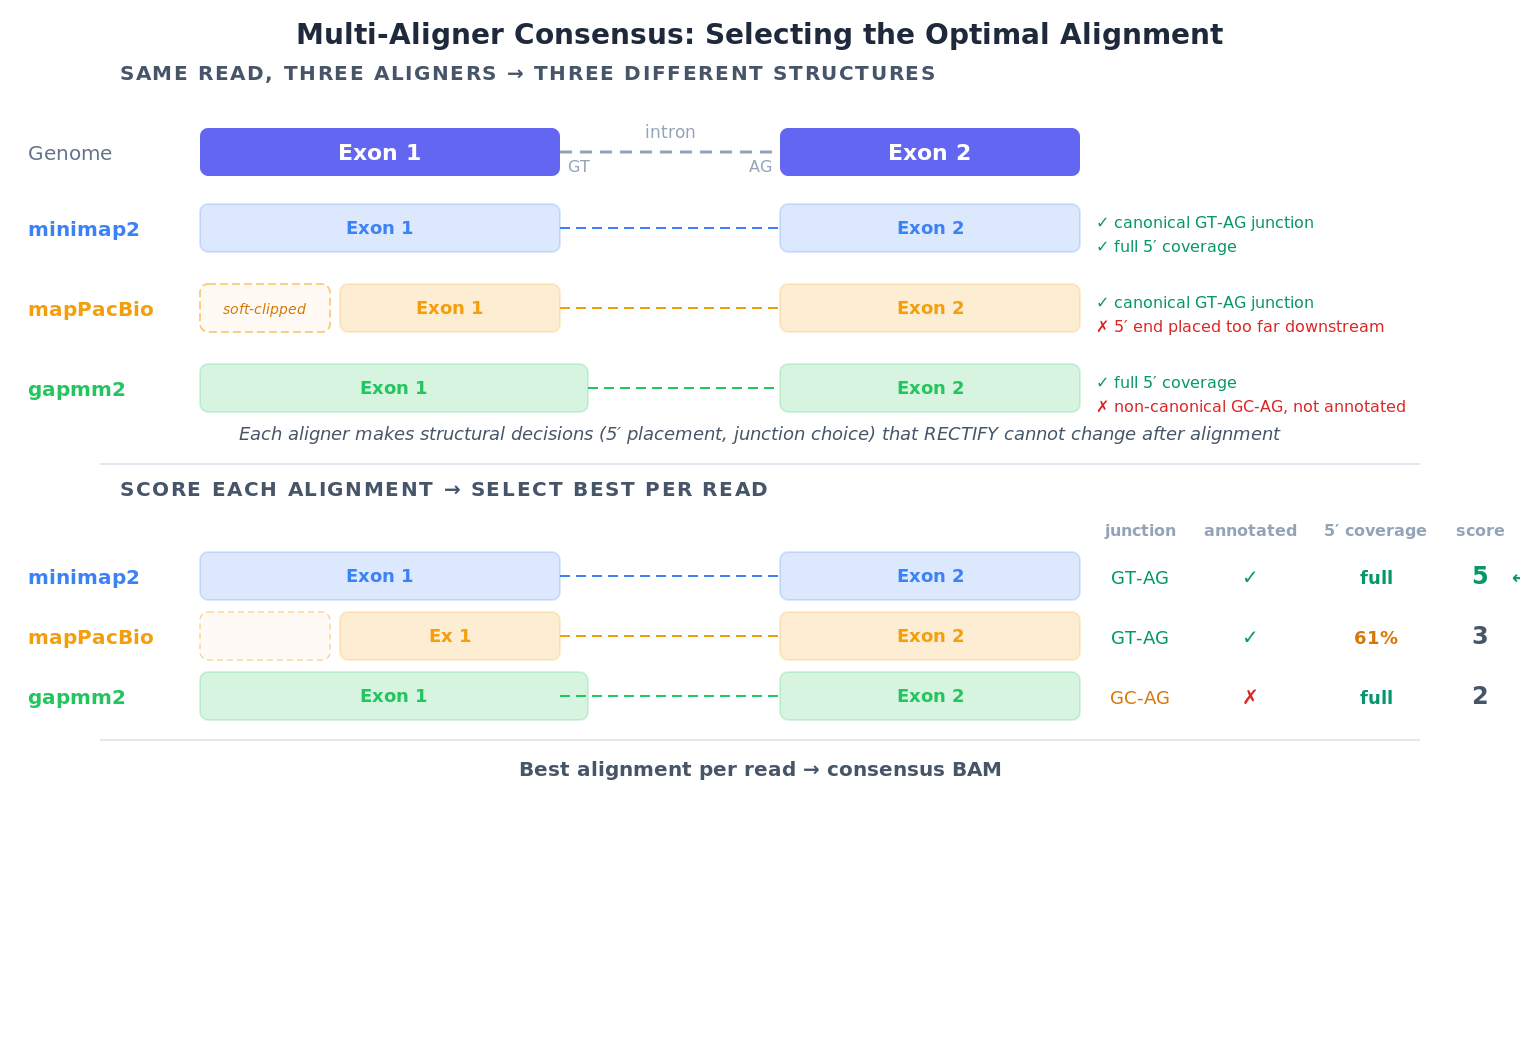
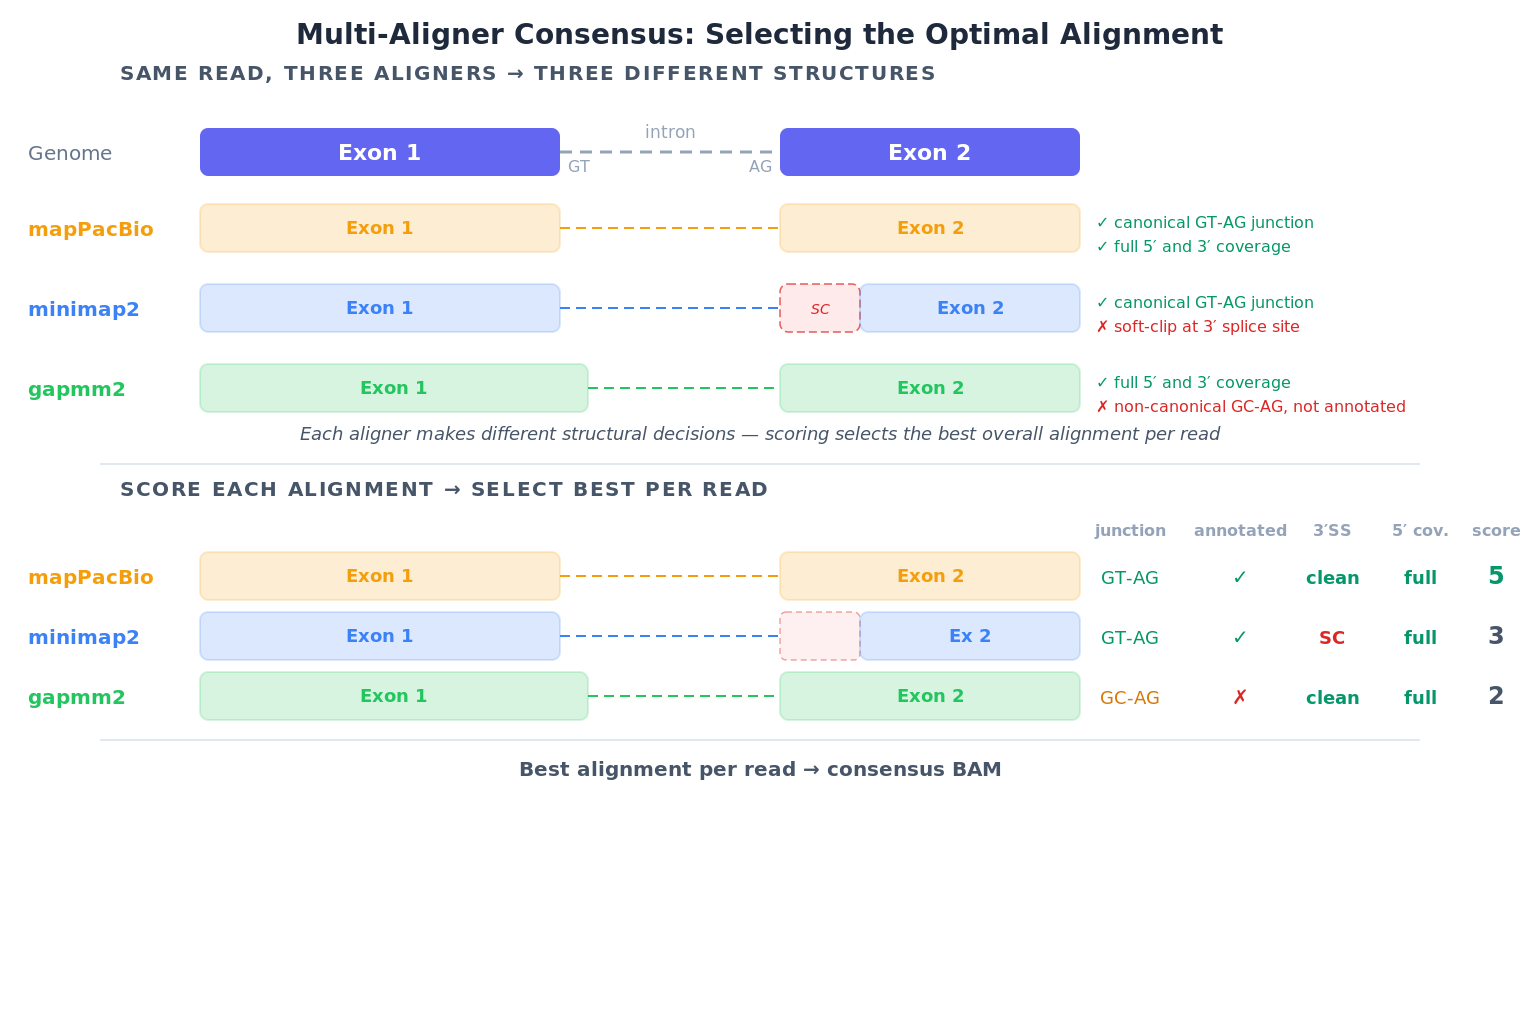
Redesign figures with unified style system; fix aligner name to mapPacBio

diff --git a/generate_figures.py b/generate_figures.py
@@ -480,14 +480,12 @@ def fig_5prime_junction():
 
 def fig_multi_aligner_consensus():
     """
-    Key insight: all aligners map the SAME read, but make fundamentally
-    different structural decisions — junction placement, 5' end positioning —
-    that RECTIFY cannot change after the fact. If RECTIFY could perfectly fix
-    everything, all aligners would score identically and consensus would be
-    pointless. The value is selecting the alignment with the best structural
-    choices per read.
+    Key insight: all aligners map the SAME read, but each makes different
+    structural decisions. For this read, mapPacBio nails the alignment;
+    minimap2 soft-clips at the 3'SS (common in DRS); gapmm2 shifts the
+    junction. Scoring selects the best overall alignment per read.
     """
-    H = 520
+    H = 510
     BLK_H = 24
     ROW_SP = 36
     L = []
@@ -499,10 +497,14 @@ def fig_multi_aligner_consensus():
     EX1_X, EX1_W = 100, 180
     EX2_X, EX2_W = 390, 150
     INT_X1, INT_X2 = 280, 390
-    # Total read footprint = Exon1 + Exon2 = 180 + 150 = 330px of aligned sequence
 
     # Aligner colors
     AC = {"minimap2": "#3b82f6", "mapPacBio": "#f59e0b", "gapmm2": "#22c55e"}
+
+    # Soft-clip width for minimap2 at 3'SS
+    sc_w = 40  # bases soft-clipped at the start of Exon 2
+    # Junction shift for gapmm2
+    jn_shift = 14
 
     # ── SAME READ, THREE DIFFERENT STRUCTURAL DECISIONS ──
     y_sec = 40
@@ -513,15 +515,14 @@ def fig_multi_aligner_consensus():
     L.append(row_label("Genome", y_g + BLK_H // 2 + 4))
     L.append(exon(EX1_X, y_g, EX1_W, BLK_H, "Exon 1"))
     L.append(intron(INT_X1, INT_X2, y_g + BLK_H // 2))
-    # Splice site dinucleotides on genome
     L.append(f'<text fill="{PAL["muted"]}" font-size="8" x="{INT_X1+4}" y="{y_g + BLK_H - 2}">GT</text>')
     L.append(f'<text fill="{PAL["muted"]}" font-size="8" text-anchor="end" x="{INT_X2-4}" y="{y_g + BLK_H - 2}">AG</text>')
     L.append(exon(EX2_X, y_g, EX2_W, BLK_H, "Exon 2"))
 
-    # ── minimap2: Full coverage, canonical annotated junction ──
+    # ── mapPacBio: Clean alignment — full coverage, canonical junction ──
     y = y_g + 38
-    c = AC["minimap2"]
-    L.append(f'<text fill="{c}" font-size="10" font-weight="600" x="14" y="{y + BLK_H//2 + 4}">minimap2</text>')
+    c = AC["mapPacBio"]
+    L.append(f'<text fill="{c}" font-size="10" font-weight="600" x="14" y="{y + BLK_H//2 + 4}">mapPacBio</text>')
     L.append(aligned_block(EX1_X, y, EX1_W, BLK_H, "Exon 1", c))
     L.append(f'<line stroke="{c}" stroke-dasharray="5,3" stroke-width="1" '
              f'x1="{INT_X1}" x2="{INT_X2}" y1="{y+BLK_H//2}" y2="{y+BLK_H//2}"/>')
@@ -529,54 +530,53 @@ def fig_multi_aligner_consensus():
     L.append(f'<text fill="{PAL["green"]}" font-size="8" x="{EX2_X + EX2_W + 8}" '
              f'y="{y + BLK_H//2 + 0}">\u2713 canonical GT-AG junction</text>')
     L.append(f'<text fill="{PAL["green"]}" font-size="8" x="{EX2_X + EX2_W + 8}" '
-             f'y="{y + BLK_H//2 + 12}">\u2713 full 5\u2032 coverage</text>')
+             f'y="{y + BLK_H//2 + 12}">\u2713 full 5\u2032 and 3\u2032 coverage</text>')
 
-    # ── mapPacBio: Same junction, but 5' end placed too far downstream ──
-    # The read is the same length — mapPacBio just didn't extend Exon 1 as far.
-    # Show as: soft-clipped 5' portion (faded) + shorter aligned Exon 1
+    # ── minimap2: Soft-clip at 3'SS — common DRS artifact ──
+    # minimap2 maps Exon 1 correctly and finds the junction, but soft-clips
+    # bases at the start of Exon 2 (right after the 3' splice site).
+    # Same read, same total length — just fewer Exon 2 bases aligned.
     y += ROW_SP + 4
-    c = AC["mapPacBio"]
-    L.append(f'<text fill="{c}" font-size="10" font-weight="600" x="14" y="{y + BLK_H//2 + 4}">mapPacBio</text>')
-    # Soft-clipped 5' region — same read, bases present but not mapped here
-    sc_w = 70  # soft-clipped portion
-    mpb_align_start = EX1_X + sc_w
-    L.append(f'<rect fill="#fff7ed" height="{BLK_H}" rx="4" '
-             f'stroke="{c}" stroke-dasharray="4,2" stroke-width="0.8" opacity="0.6" '
-             f'width="{sc_w - 5}" x="{EX1_X}" y="{y}"/>')
-    L.append(f'<text fill="{PAL["orange"]}" font-size="7" font-style="italic" text-anchor="middle" '
-             f'x="{EX1_X + (sc_w - 5)//2}" y="{y + BLK_H//2 + 3}">soft-clipped</text>')
-    # Aligned portion of Exon 1 (shorter)
-    L.append(aligned_block(mpb_align_start, y, INT_X1 - mpb_align_start, BLK_H, "Exon 1", c))
+    c = AC["minimap2"]
+    L.append(f'<text fill="{c}" font-size="10" font-weight="600" x="14" y="{y + BLK_H//2 + 4}">minimap2</text>')
+    # Exon 1 aligned fully
+    L.append(aligned_block(EX1_X, y, EX1_W, BLK_H, "Exon 1", c))
+    # Junction
     L.append(f'<line stroke="{c}" stroke-dasharray="5,3" stroke-width="1" '
              f'x1="{INT_X1}" x2="{INT_X2}" y1="{y+BLK_H//2}" y2="{y+BLK_H//2}"/>')
-    L.append(aligned_block(EX2_X, y, EX2_W, BLK_H, "Exon 2", c))
+    # Soft-clipped region at start of Exon 2 (right after 3'SS)
+    L.append(f'<rect fill="{PAL["red_l"]}" height="{BLK_H}" rx="4" '
+             f'stroke="{PAL["red"]}" stroke-dasharray="4,2" stroke-width="0.8" opacity="0.7" '
+             f'width="{sc_w}" x="{EX2_X}" y="{y}"/>')
+    L.append(f'<text fill="{PAL["red"]}" font-size="7" font-style="italic" text-anchor="middle" '
+             f'x="{EX2_X + sc_w//2}" y="{y + BLK_H//2 + 3}">SC</text>')
+    # Remainder of Exon 2 aligned
+    L.append(aligned_block(EX2_X + sc_w, y, EX2_W - sc_w, BLK_H, "Exon 2", c))
     L.append(f'<text fill="{PAL["green"]}" font-size="8" x="{EX2_X + EX2_W + 8}" '
              f'y="{y + BLK_H//2 + 0}">\u2713 canonical GT-AG junction</text>')
     L.append(f'<text fill="{PAL["red"]}" font-size="8" x="{EX2_X + EX2_W + 8}" '
-             f'y="{y + BLK_H//2 + 12}">\u2717 5\u2032 end placed too far downstream</text>')
+             f'y="{y + BLK_H//2 + 12}">\u2717 soft-clip at 3\u2032 splice site</text>')
 
     # ── gapmm2: Full coverage, but junction shifted to wrong position ──
-    # Non-canonical splice site, not in annotation database
     y += ROW_SP + 4
     c = AC["gapmm2"]
     L.append(f'<text fill="{c}" font-size="10" font-weight="600" x="14" y="{y + BLK_H//2 + 4}">gapmm2</text>')
-    # Exon 1 extends further (junction placed too far right)
-    jn_shift = 14  # junction shifted 14px into what should be the intron
+    # Exon 1 extends past the true junction (shifted splice site)
     L.append(aligned_block(EX1_X, y, EX1_W + jn_shift, BLK_H, "Exon 1", c))
     L.append(f'<line stroke="{c}" stroke-dasharray="5,3" stroke-width="1" '
              f'x1="{INT_X1 + jn_shift}" x2="{INT_X2}" y1="{y+BLK_H//2}" y2="{y+BLK_H//2}"/>')
     L.append(aligned_block(EX2_X, y, EX2_W, BLK_H, "Exon 2", c))
     L.append(f'<text fill="{PAL["green"]}" font-size="8" x="{EX2_X + EX2_W + 8}" '
-             f'y="{y + BLK_H//2 + 0}">\u2713 full 5\u2032 coverage</text>')
+             f'y="{y + BLK_H//2 + 0}">\u2713 full 5\u2032 and 3\u2032 coverage</text>')
     L.append(f'<text fill="{PAL["red"]}" font-size="8" x="{EX2_X + EX2_W + 8}" '
              f'y="{y + BLK_H//2 + 12}">\u2717 non-canonical GC-AG, not annotated</text>')
 
-    # ── Callout: why this matters ──
+    # ── Callout ──
     y_note = y + BLK_H + 14
     L.append(f'<text fill="{PAL["heading"]}" font-size="9" font-style="italic" '
              f'text-anchor="middle" x="{FIG_W//2}" y="{y_note}">'
-             f'Each aligner makes structural decisions (5\u2032 placement, junction choice) '
-             f'that RECTIFY cannot change after alignment</text>')
+             f'Each aligner makes different structural decisions \u2014 '
+             f'scoring selects the best overall alignment per read</text>')
 
     # ── DIVIDER ──
     y_div = y_note + 12
@@ -588,61 +588,69 @@ def fig_multi_aligner_consensus():
 
     # Column headers
     y_hdr = y_sec2 + 20
-    score_cols = [("junction", 570), ("annotated", 625), ("5\u2032 coverage", 688), ("score", 740)]
+    score_cols = [("junction", 565), ("annotated", 620), ("3\u2032SS", 666), ("5\u2032 cov.", 710), ("score", 748)]
     for label, cx in score_cols:
         L.append(f'<text fill="{PAL["muted"]}" font-size="8" font-weight="600" '
                  f'text-anchor="middle" x="{cx}" y="{y_hdr}">{label}</text>')
 
-    # Score rows — these reflect POST-RECTIFY state (soft-clips rescued, indels
-    # corrected) but structural decisions are baked in
+    # Score rows
     scores = [
-        ("minimap2",   AC["minimap2"],   "GT-AG", "\u2713", "full",  "5", True),
-        ("mapPacBio",  AC["mapPacBio"],  "GT-AG", "\u2713", "61%",   "3", False),
-        ("gapmm2",     AC["gapmm2"],     "GC-AG", "\u2717", "full",  "2", False),
+        ("mapPacBio",  AC["mapPacBio"],  "GT-AG", "\u2713", "clean",  "full",  "5", True),
+        ("minimap2",   AC["minimap2"],   "GT-AG", "\u2713", "SC",     "full",  "3", False),
+        ("gapmm2",     AC["gapmm2"],     "GC-AG", "\u2717", "clean",  "full",  "2", False),
     ]
 
-    for i, (name, color, jn, ann, cov, score, is_best) in enumerate(scores):
+    for i, (name, color, jn, ann, ss, cov, score, is_best) in enumerate(scores):
         y = y_hdr + 8 + i * 30
         L.append(f'<text fill="{color}" font-size="10" font-weight="600" x="14" '
                  f'y="{y + BLK_H//2 + 4}">{name}</text>')
 
-        # Compact alignment bars in score section
+        # Compact alignment bars
         bar_x = 100
-        if name == "mapPacBio":
-            # Show truncated 5' as faded region
-            L.append(f'<rect fill="#fff7ed" height="{BLK_H}" rx="4" '
-                     f'stroke="{color}" stroke-dasharray="3,2" stroke-width="0.6" opacity="0.5" '
-                     f'width="{sc_w - 5}" x="{bar_x}" y="{y}"/>')
-            L.append(aligned_block(bar_x + sc_w, y, EX1_W - sc_w, BLK_H, "Ex 1", color))
+        if name == "minimap2":
+            L.append(aligned_block(bar_x, y, EX1_W, BLK_H, "Exon 1", color))
+            L.append(f'<line stroke="{color}" stroke-dasharray="5,3" stroke-width="1" '
+                     f'x1="{INT_X1}" x2="{INT_X2}" y1="{y+BLK_H//2}" y2="{y+BLK_H//2}"/>')
+            # SC region + shorter Exon 2
+            L.append(f'<rect fill="{PAL["red_l"]}" height="{BLK_H}" rx="3" '
+                     f'stroke="{PAL["red"]}" stroke-dasharray="3,2" stroke-width="0.6" opacity="0.5" '
+                     f'width="{sc_w}" x="{EX2_X}" y="{y}"/>')
+            L.append(aligned_block(EX2_X + sc_w, y, EX2_W - sc_w, BLK_H, "Ex 2", color))
         elif name == "gapmm2":
             L.append(aligned_block(bar_x, y, EX1_W + jn_shift, BLK_H, "Exon 1", color))
+            L.append(f'<line stroke="{color}" stroke-dasharray="5,3" stroke-width="1" '
+                     f'x1="{INT_X1 + jn_shift}" x2="{INT_X2}" y1="{y+BLK_H//2}" y2="{y+BLK_H//2}"/>')
+            L.append(aligned_block(EX2_X, y, EX2_W, BLK_H, "Exon 2", color))
         else:
+            # mapPacBio — clean
             L.append(aligned_block(bar_x, y, EX1_W, BLK_H, "Exon 1", color))
-
-        L.append(f'<line stroke="{color}" stroke-dasharray="5,3" stroke-width="1" '
-                 f'x1="{INT_X1}" x2="{INT_X2}" y1="{y+BLK_H//2}" y2="{y+BLK_H//2}"/>')
-        L.append(aligned_block(EX2_X, y, EX2_W, BLK_H, "Exon 2", color))
+            L.append(f'<line stroke="{color}" stroke-dasharray="5,3" stroke-width="1" '
+                     f'x1="{INT_X1}" x2="{INT_X2}" y1="{y+BLK_H//2}" y2="{y+BLK_H//2}"/>')
+            L.append(aligned_block(EX2_X, y, EX2_W, BLK_H, "Exon 2", color))
 
         # Score values
         jn_color = PAL["green"] if jn == "GT-AG" else PAL["orange"]
         L.append(f'<text fill="{jn_color}" font-size="9" text-anchor="middle" '
-                 f'x="570" y="{y + BLK_H//2 + 4}">{jn}</text>')
+                 f'x="565" y="{y + BLK_H//2 + 4}">{jn}</text>')
         ann_color = PAL["green"] if ann == "\u2713" else PAL["red"]
         L.append(f'<text fill="{ann_color}" font-size="10" font-weight="600" text-anchor="middle" '
-                 f'x="625" y="{y + BLK_H//2 + 4}">{ann}</text>')
+                 f'x="620" y="{y + BLK_H//2 + 4}">{ann}</text>')
+        ss_color = PAL["green"] if ss == "clean" else PAL["red"]
+        L.append(f'<text fill="{ss_color}" font-size="9" font-weight="600" text-anchor="middle" '
+                 f'x="666" y="{y + BLK_H//2 + 4}">{ss}</text>')
         cov_color = PAL["green"] if cov == "full" else PAL["orange"]
         L.append(f'<text fill="{cov_color}" font-size="9" font-weight="600" text-anchor="middle" '
-                 f'x="688" y="{y + BLK_H//2 + 4}">{cov}</text>')
+                 f'x="710" y="{y + BLK_H//2 + 4}">{cov}</text>')
 
         # Total score
         sc_weight = "700" if is_best else "600"
         sc_color = PAL["green"] if is_best else PAL["heading"]
         L.append(f'<text fill="{sc_color}" font-size="12" font-weight="{sc_weight}" '
-                 f'text-anchor="middle" x="740" y="{y + BLK_H//2 + 4}">{score}</text>')
+                 f'text-anchor="middle" x="748" y="{y + BLK_H//2 + 4}">{score}</text>')
 
         if is_best:
             L.append(f'<text fill="{PAL["green"]}" font-size="9" font-weight="700" '
-                     f'x="756" y="{y + BLK_H//2 + 4}">\u2190 best</text>')
+                     f'x="762" y="{y + BLK_H//2 + 4}">\u2190 best</text>')
 
     # Final output label
     y_out = y_hdr + 8 + 3 * 30 + 4
